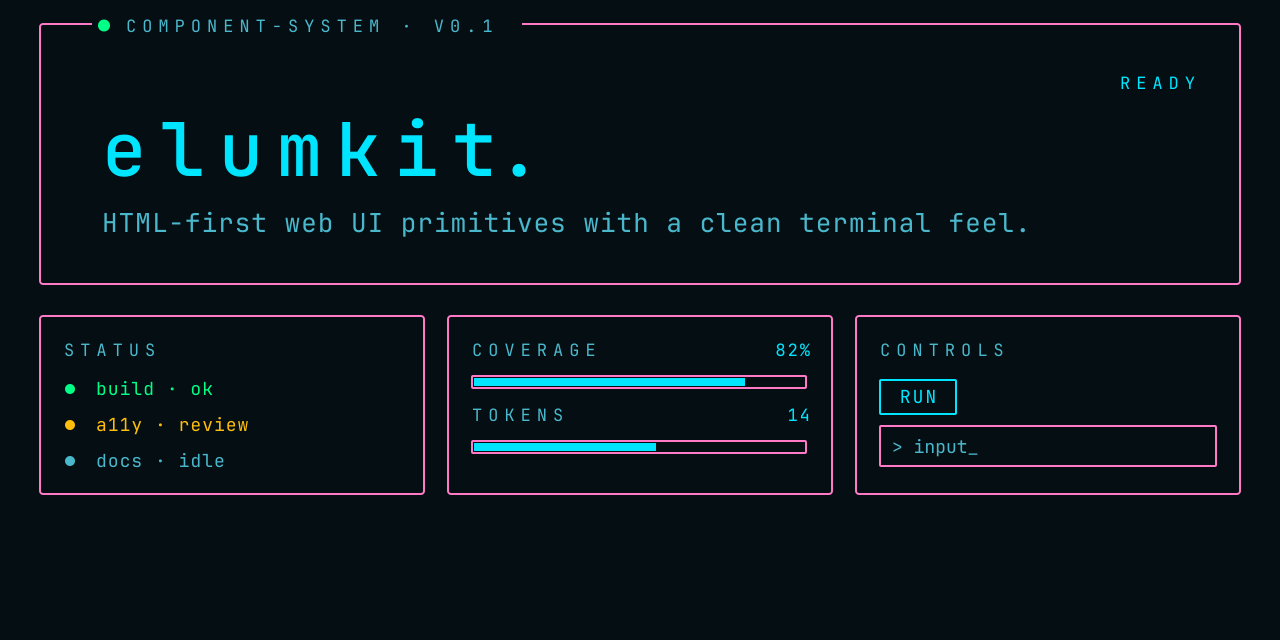
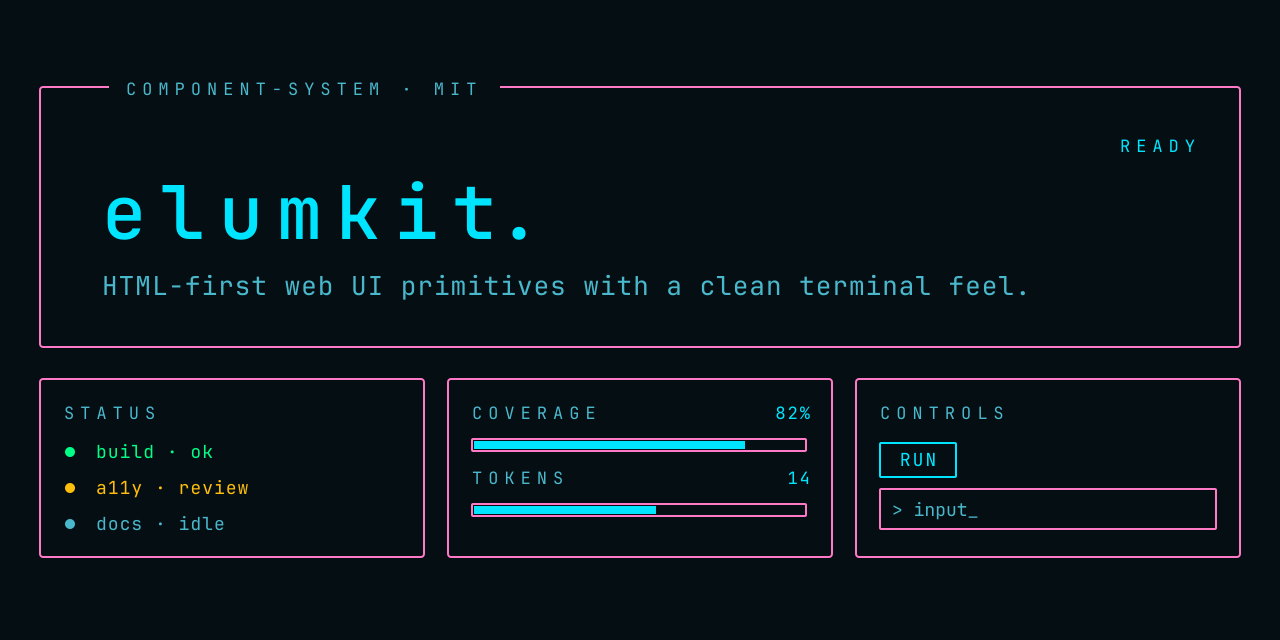
chore: align hero label and center social art
- Swap `V0.1` for `MIT` across hero placements.
- Drop social's green dot to mirror readme-hero.
- Vertically center social.png content.

diff --git a/examples/playground.html b/examples/playground.html
@@ -182,7 +182,7 @@
     <main class="elum-container elum-stack">
       <header class="elum-card elum-card-labeled playground-header">
         <div class="elum-card-header" data-inline="true">
-          <div class="elum-card-title">Component system · v0.1</div>
+          <div class="elum-card-title">Component system · MIT</div>
           <p class="elum-card-subtitle playground-title-status">
             theme <span id="theme-status">[IRON]</span> components [22]
           </p>
